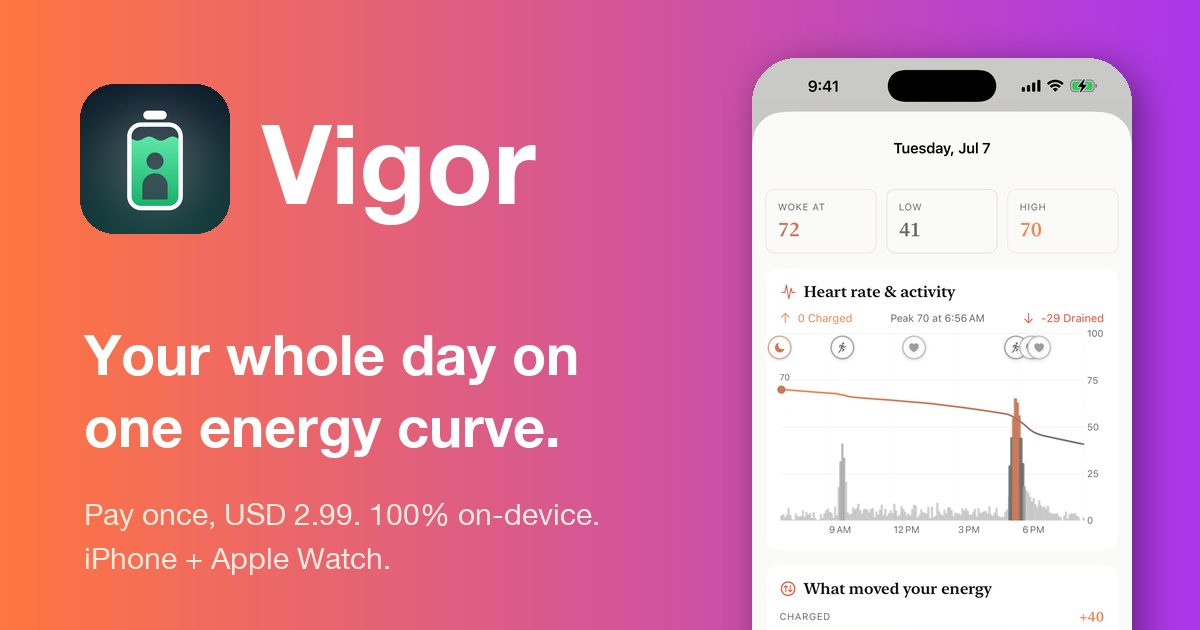
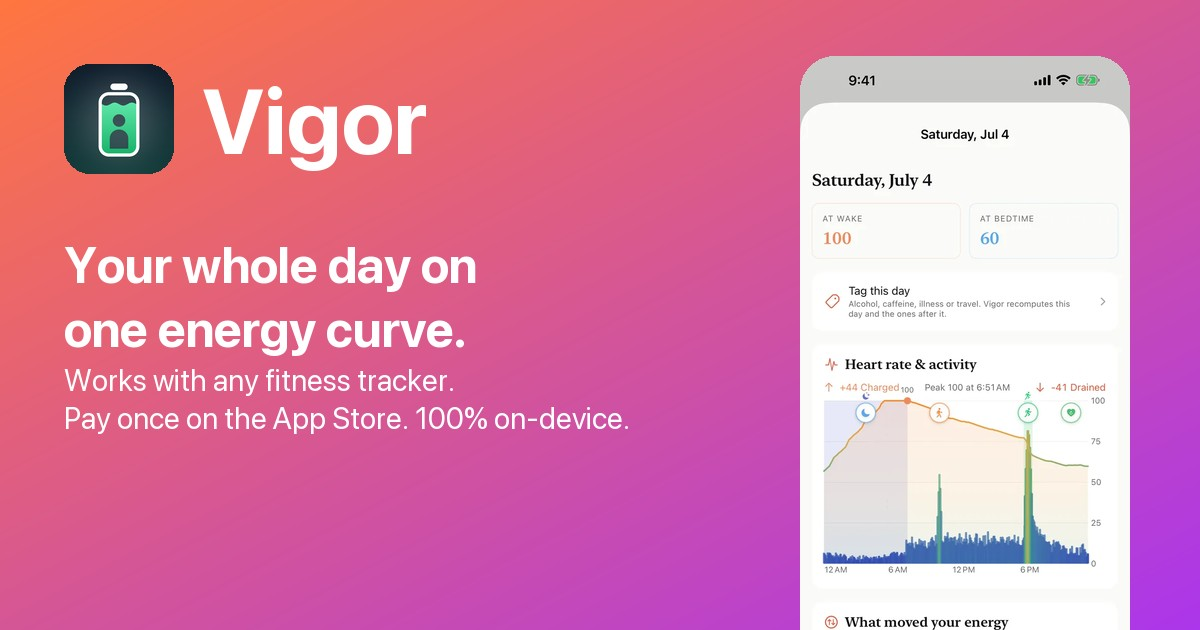
Social card: name no watch platform, state no Android price
The 1200 x 630 preview shown when the site is shared said "iPhone + Apple
Watch" in the image itself. Redrawn (deliverables/tools/make_cards.py) in the
same coral-to-violet style from the day-view screenshot: "Works with any
fitness tracker. Pay once on the App Store. 100% on-device." The image URL
carries ?v=2 so link previews fetch the new one.

diff --git a/index.html b/index.html
@@ -11,14 +11,14 @@
 <meta property="og:title" content="Vigor - your whole day on one energy curve">
 <meta property="og:description" content="A 0 to 100 body-energy score and a full-day energy curve from any fitness tracker - Garmin, Oura, Whoop, Fitbit and more. Computed on your phone. On the App Store, pay once, USD 2.99. Android coming soon.">
 <meta property="og:url" content="https://frozaccio.github.io/Vigor/">
-<meta property="og:image" content="https://frozaccio.github.io/Vigor/assets/og-card.jpg">
+<meta property="og:image" content="https://frozaccio.github.io/Vigor/assets/og-card.jpg?v=2">
 <meta property="og:image:width" content="1200">
 <meta property="og:image:height" content="630">
 <meta property="og:image:alt" content="Vigor app icon and a day of body energy drawn as one curve">
 <meta name="twitter:card" content="summary_large_image">
 <meta name="twitter:title" content="Vigor - your whole day on one energy curve">
 <meta name="twitter:description" content="A 0 to 100 body-energy score and a full-day energy curve from any fitness tracker. Computed on your phone. On the App Store, pay once, USD 2.99. Android coming soon.">
-<meta name="twitter:image" content="https://frozaccio.github.io/Vigor/assets/og-card.jpg">
+<meta name="twitter:image" content="https://frozaccio.github.io/Vigor/assets/og-card.jpg?v=2">
 <link rel="icon" href="assets/icon.png">
 <link rel="apple-touch-icon" href="assets/icon.png">
 <script type="application/ld+json">
@@ -30,7 +30,7 @@
   "applicationCategory": "HealthApplication",
   "description": "Vigor turns health data from any Apple Health tracker - Garmin, Oura, Whoop, Fitbit and more - into a 0 to 100 body-energy score and a full-day energy curve, computed entirely on the iPhone. Eight visual themes, morning readiness score, day tags, a watch app, complications, widgets, and an opt-in Circles feature to share your energy score one to one with individual friends who accept your request (over your own iCloud). One-time purchase, no subscription; health data never leaves the device.",
   "url": "https://frozaccio.github.io/Vigor/",
-  "image": "https://frozaccio.github.io/Vigor/assets/og-card.jpg",
+  "image": "https://frozaccio.github.io/Vigor/assets/og-card.jpg?v=2",
   "author": { "@type": "Person", "name": "Thomas Frosio" },
   "offers": {
     "@type": "Offer",
